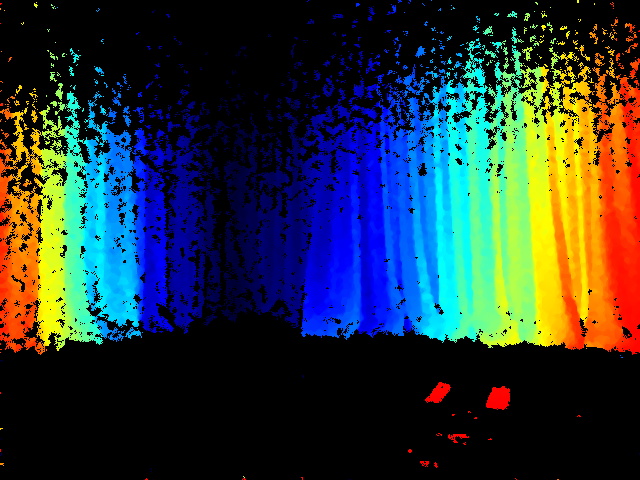
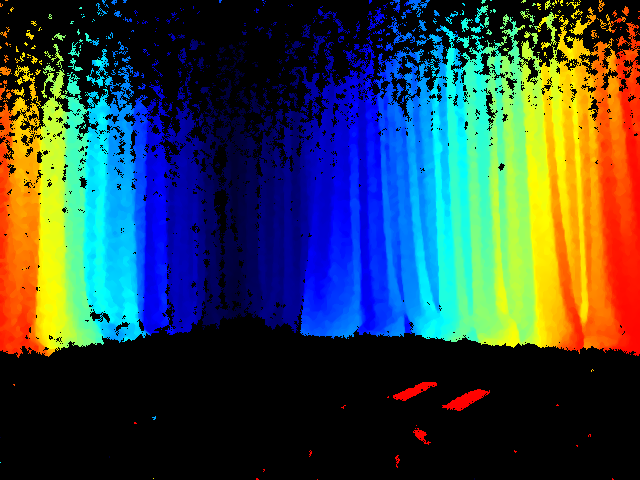
modified

diff --git a/data_generation/real_data/main.py b/data_generation/real_data/main.py
@@ -85,8 +85,8 @@ config["roscore"]["2"]["terminal_2"]["operation"] = "set ChocolateyInstall=c://o
 config["cmos_config"] = dict()
 config["cmos_config"]["cam_ids"] = ["DEV_000F310382EB", "DEV_000F310382ED"]
 config["cmos_config"]["iterations"] = 3
-# config["cmos_config"]["exposure_time"] = 5.0e+5 # micro seconds
-config["cmos_config"]["exposure_time"] = 5.0e+3 # micro seconds
+config["cmos_config"]["exposure_time"] = 5.0e+5 # micro seconds
+# config["cmos_config"]["exposure_time"] = 5.0e+3 # micro seconds
 config["cmos_config"]["timeout_time"] = int(5.0e+3) # milli seconds
 
 config["depth_config"] = dict()
@@ -107,7 +107,7 @@ config["laser_config"]["laser3"] = 85
 # config["laser_config"]["laser3"] = 5
 
 config["galvanometer_config"] = dict()
-config["galvanometer_config"]["num_grid"] = 2
+config["galvanometer_config"]["num_grid"] = 5
 config["galvanometer_config"]["voltage_range"] = [-10.0, 10.0]
 
 # config for light

diff --git a/data_generation/real_data/laser/laser.py b/data_generation/real_data/laser/laser.py
@@ -45,7 +45,7 @@ class Laser():
 if __name__ == "__main__":
     config = dict()
     config["laser_config"] = dict()
-    config["laser_config"]["cport_nr"] = 2
+    config["laser_config"]["cport_nr"] = 0
     config["laser_config"]["bdrate"] = 9600
     config["laser_config"]["laser1"] = 100
     config["laser_config"]["laser2"] = 76
